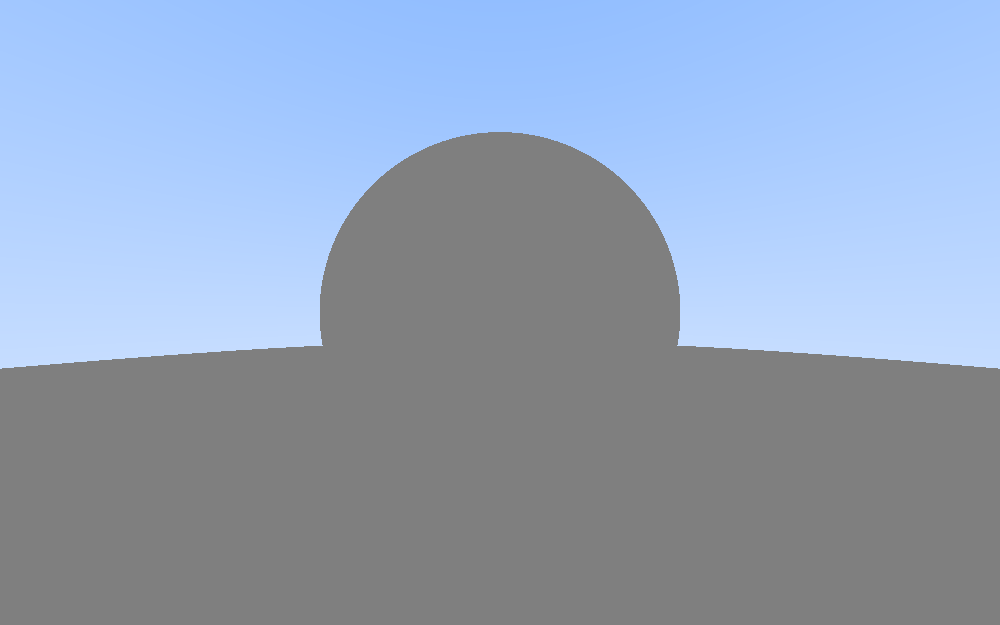
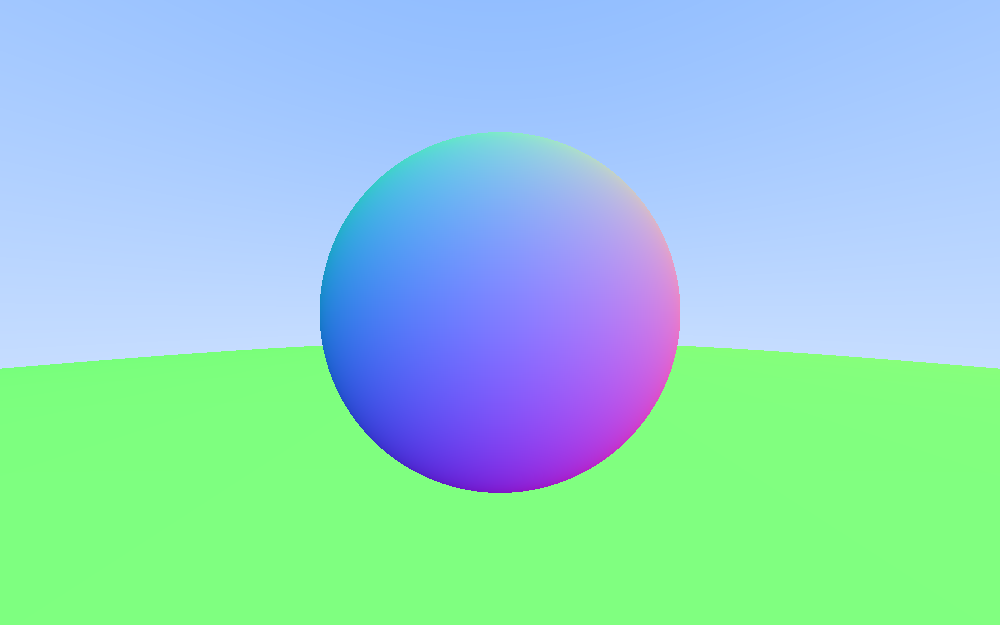
fixed a terrible bug

diff --git a/src/hittables.rs b/src/hittables.rs
@@ -20,7 +20,7 @@ impl hit_record {
             front_face: false,
         }
     }
-    pub fn set_face_normal(mut self, r: &ray, outward_normal: vec3) {
+    pub fn set_face_normal(&mut self, r: &ray, outward_normal: vec3) {
         self.front_face = vec3::dot(r.direction(), outward_normal) < 0.0;
         self.normal = if self.front_face {
             outward_normal
@@ -32,7 +32,7 @@ impl hit_record {
 
 #[allow(non_camel_case_types)]
 pub trait hittable {
-    fn hit(self, r: &ray, ray_tmin: f64, ray_tmax: f64, rec: &mut hit_record) -> bool;
+    fn hit(&self, r: &ray, ray_tmin: f64, ray_tmax: f64, rec: &mut hit_record) -> bool;
 }
 
 #[allow(non_camel_case_types)]
@@ -42,7 +42,7 @@ pub enum hittable_obj {
 }
 
 impl hittable for hittable_obj {
-    fn hit(self, r: &ray, ray_tmin: f64, ray_tmax: f64, rec: &mut hit_record) -> bool {
+    fn hit(&self, r: &ray, ray_tmin: f64, ray_tmax: f64, rec: &mut hit_record) -> bool {
         match self {
             hittable_obj::sphere(x) => x.hit(r, ray_tmin, ray_tmax, rec),
         }
@@ -68,7 +68,7 @@ impl hittable_list {
 }
 
 impl hittable for hittable_list {
-    fn hit(self, r: &ray, ray_tmin: f64, ray_tmax: f64, rec: &mut hit_record) -> bool {
+    fn hit(&self, r: &ray, ray_tmin: f64, ray_tmax: f64, rec: &mut hit_record) -> bool {
         let mut temp_rec = hit_record::null();
         let mut hit_anything = false;
         let mut closest_so_far = ray_tmax;

diff --git a/src/main.rs b/src/main.rs
@@ -19,7 +19,7 @@ fn write_color(c: &color, data: &mut Vec<u8>) {
 
 fn ray_color(r: &ray, world: &hittable_list) -> color {
     let mut rec = hit_record::null();
-    if world.clone().hit(r, 0.0, f64::INFINITY, &mut rec) {
+    if world.hit(r, 0.0, f64::INFINITY, &mut rec) {
         (rec.normal + color::from_scalar(1.0)) * 0.5
     } else {
         let unit_direction = r.direction().normalized();

diff --git a/src/objects.rs b/src/objects.rs
@@ -15,7 +15,7 @@ impl sphere {
 }
 
 impl hittable for sphere {
-    fn hit(self, r: &ray, ray_tmin: f64, ray_tmax: f64, rec: &mut hit_record) -> bool {
+    fn hit(&self, r: &ray, ray_tmin: f64, ray_tmax: f64, rec: &mut hit_record) -> bool {
         let oc = r.origin() - self.center;
         let a = r.direction().length_squared();
         let half_b = vec3::dot(oc, r.direction());

diff --git a/src/maths.rs b/src/maths.rs
@@ -95,7 +95,7 @@ impl vec3 {
 // for printing
 impl std::fmt::Display for vec3 {
     fn fmt(&self, f: &mut std::fmt::Formatter<'_>) -> std::fmt::Result {
-        writeln!(f, "[{}, {}, {},]", self.x, self.y, self.z)
+        write!(f, "[{:.2}, {:.2}, {:.2}]", self.x, self.y, self.z)
     }
 }
 
